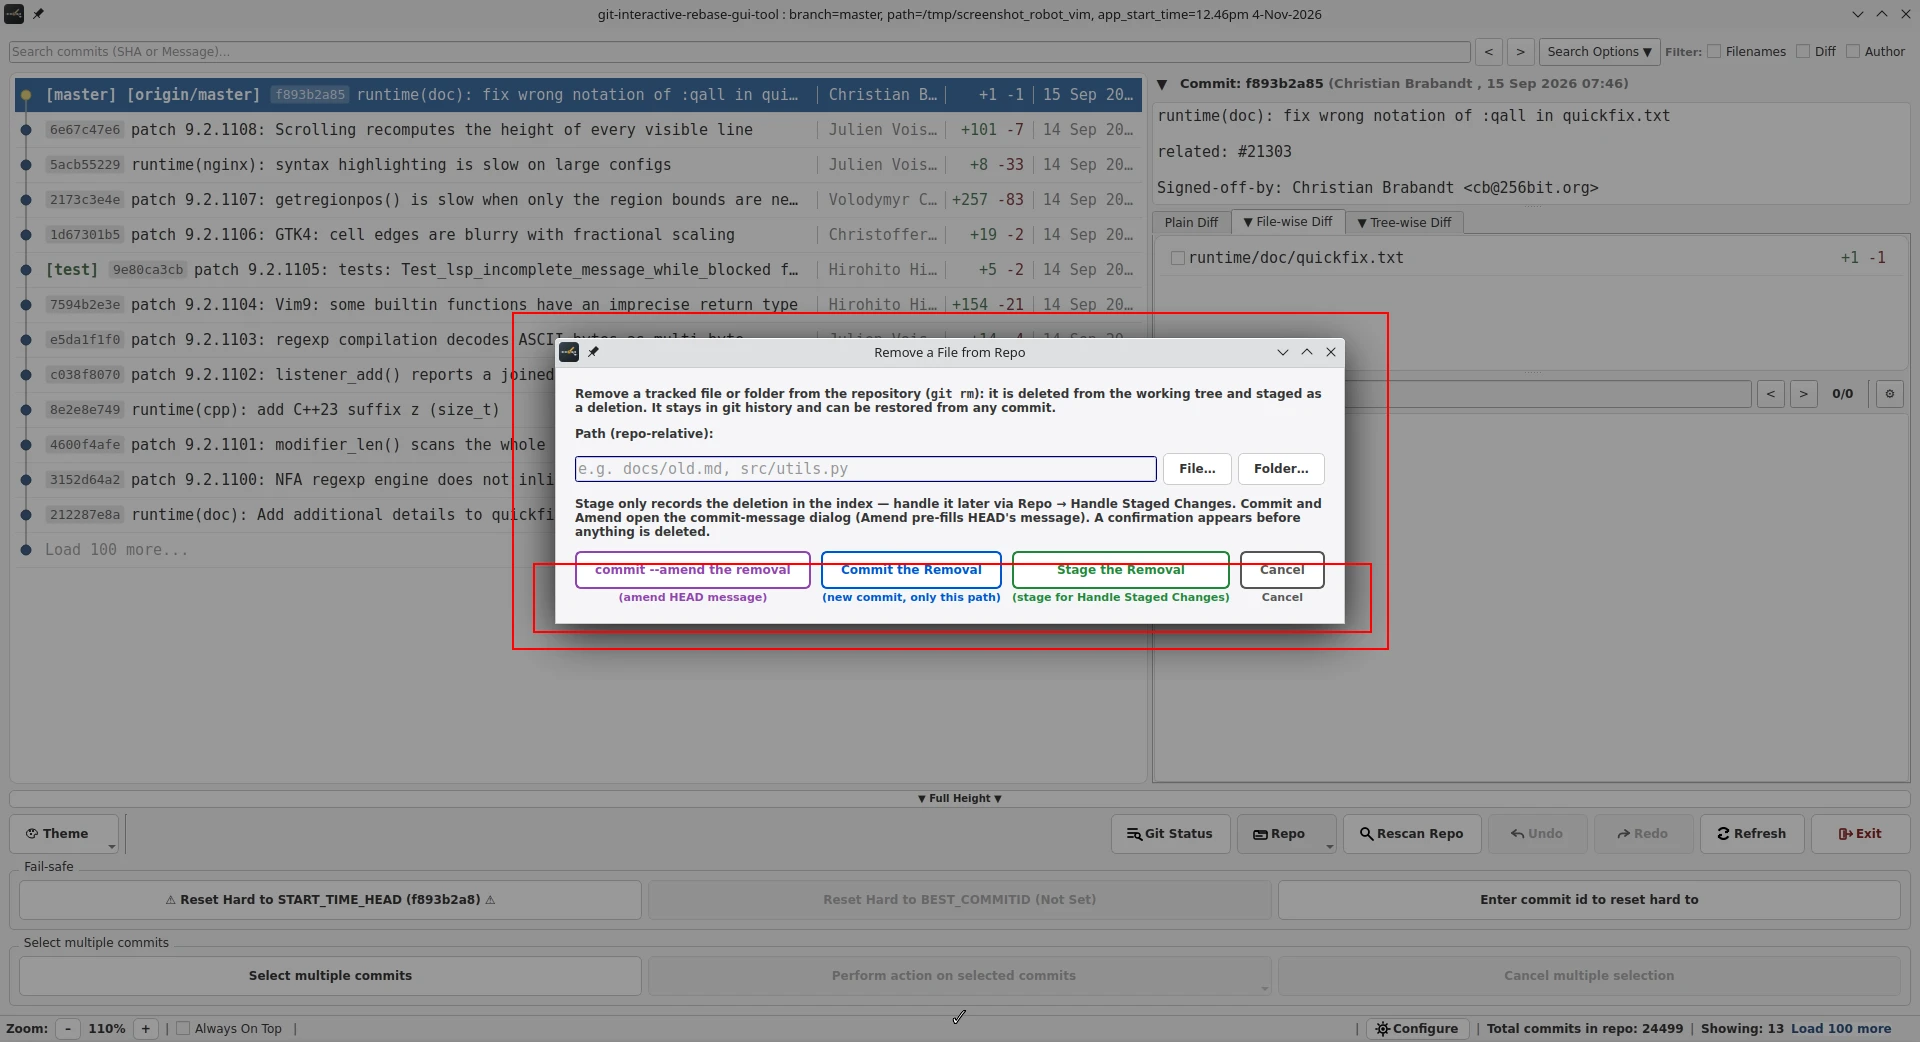
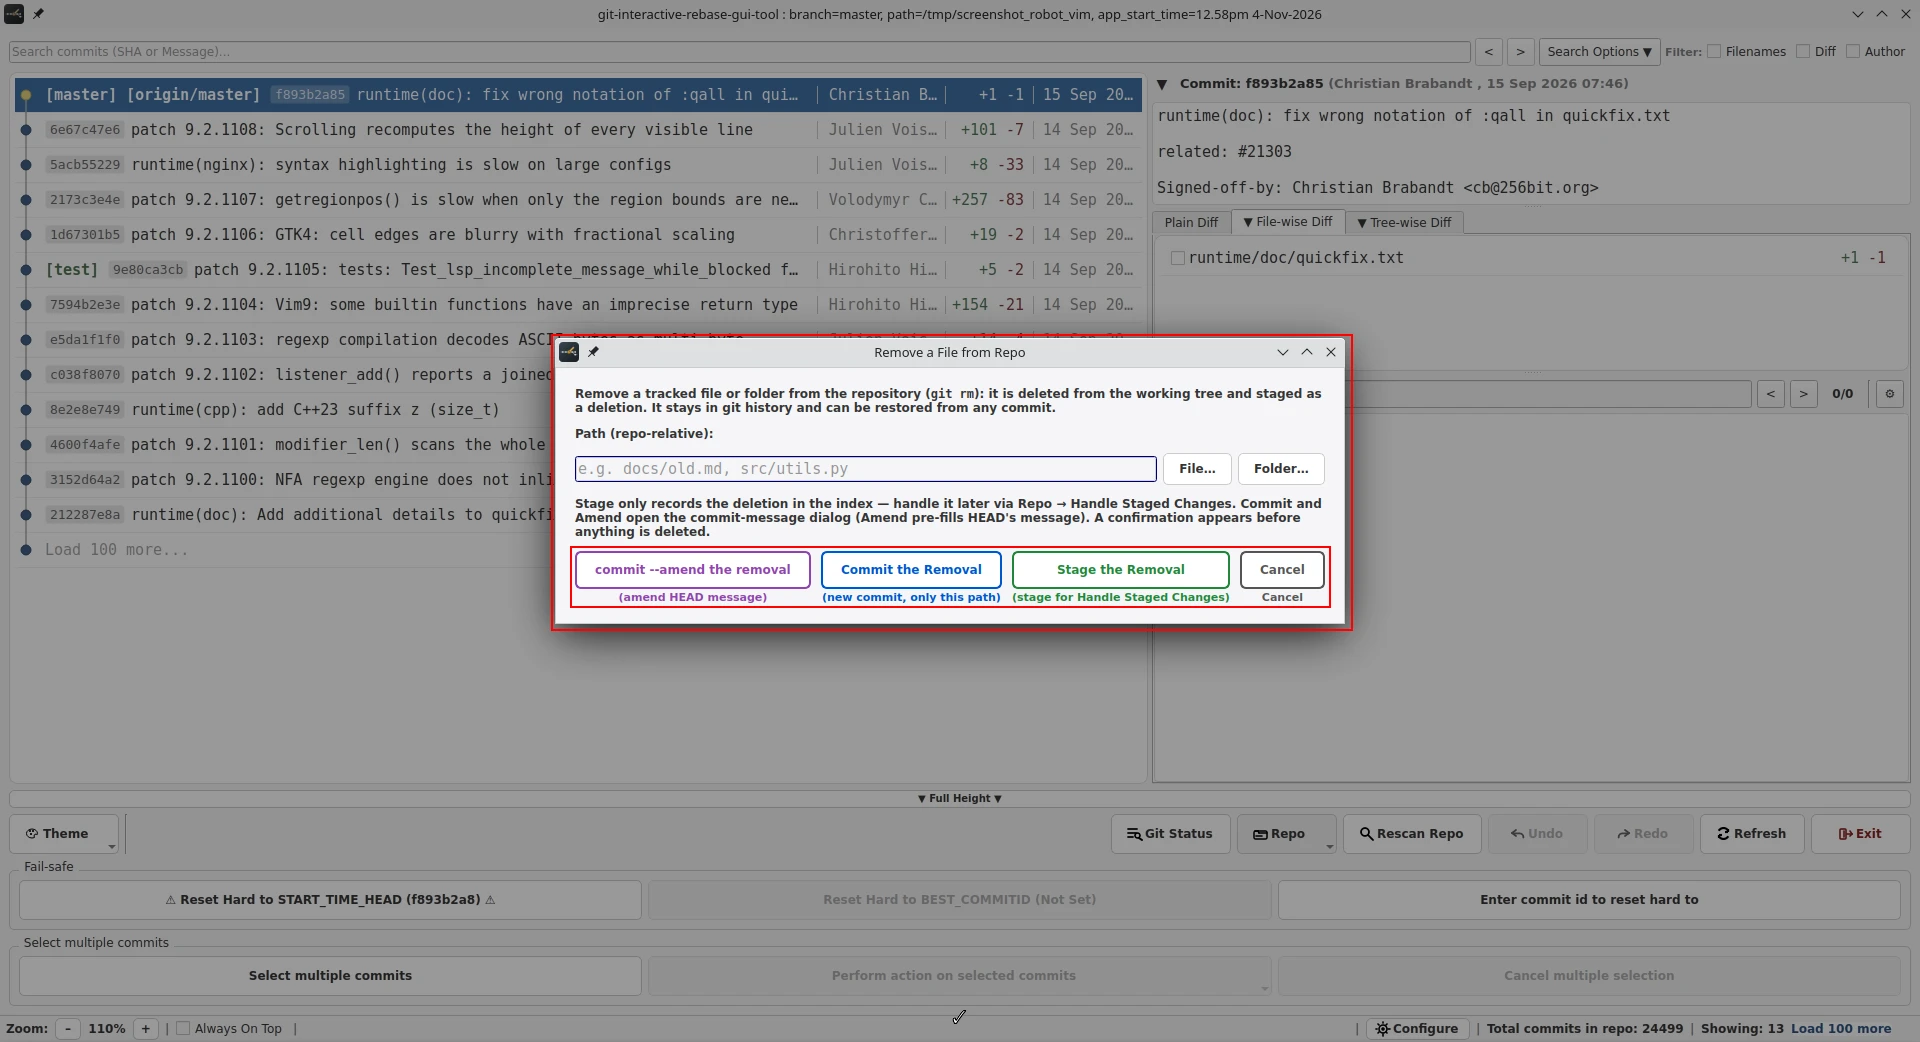
capture: rename-move.webp, remove-file.webp, submodule-manager.webp

Changed region(s): [[0.25, 0.5221, 0.7188, 0.6449], [0.2812, 0.2764, 0.7188, 0.3378]]

diff --git a/scenes/main.py b/scenes/main.py
@@ -37,7 +37,7 @@ REF_COMMIT = "f893b2a853e1559d51291a3731d6cd6df79f1a51"
 # One line per screenshot: (script, [images the script must produce]).
 
 SCENES = []
-'''
+#'''
 SCENES += [("rephrase-and-drop-commit.py", ["rephrase-and-drop-commit.png"])]
 SCENES += [("mark-commits.py", ["mark-commits.png"])]
 SCENES += [("tag-commit.py", ["tag-commit.png"])]
@@ -82,10 +82,10 @@ SCENES += [("find-merge-base.py", ["find-merge-base.png"])]
 SCENES += [("pr-diff.py", ["pr-diff.png"])]
 SCENES += [("add-untracked-files.py", ["add-untracked-files.png"])]
 SCENES += [("update-available-dialog.py", ["update-available-dialog.png"])]
-'''
 SCENES += [("rename-move.py", ["rename-move.png"])]
 SCENES += [("remove-file.py", ["remove-file.png"])]
 SCENES += [("submodule-manager.py", ["submodule-manager.png"])]
+#'''
 
 # SCENES += [("test.py", ["test.png"])]
 
